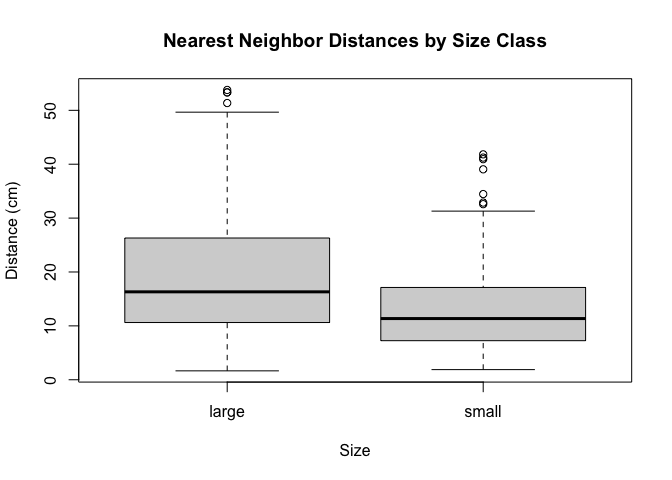
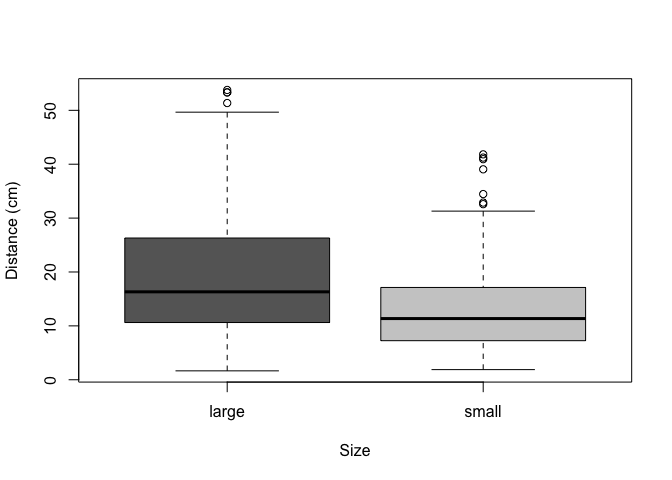
new graphs

Changed region(s): [[0.1875, 0.4688, 0.5, 0.6875], [0.2188, 0.0625, 0.8125, 0.125]]

diff --git a/fhlcode_draft1.md b/fhlcode_draft1.md
@@ -218,7 +218,7 @@ summary_table <- cym_dat %>%
 ggplot(summary_table, aes(x = size, y = count, fill = response_type)) +
   geom_bar(stat = "identity", position = "dodge") +
   labs(title = "Frequency of Fast and Slow Responses by Size Group", y = "Frequency") +
-  scale_fill_manual(values = c("gray40", "gray80")) +
+  scale_fill_manual(values = c("gray40", "gray80"), name="Response Type") +
   theme_minimal()
 ```
 
@@ -301,8 +301,8 @@ print(manwhit_NND)
 ``` r
 #they are significantly different from each other and further apart!  
 
-boxplot(NND ~ size, data = cym_dat, main = "Nearest Neighbor Distances by Size Class",
-        xlab = "Size", ylab = "Distance (cm)")
+boxplot(NND ~ size, data = cym_dat,
+        xlab = "Size", ylab = "Distance (cm)", col = c("gray40", "gray80"))
 ```
 
 ![](fhlcode_draft1_files/figure-gfm/unnamed-chunk-5-1.png)<!-- -->
@@ -877,7 +877,8 @@ ggplot(fast_dat,aes(x=NND,y=turning_rate,color=s_w_reactor))+
    theme(legend.title=element_text(size=14),
        legend.text=element_text(size=14))+
   labs(x = "NND",
-       y = "Turning rate (degree/sec)")
+       y = "Turning rate (degree/sec)")+
+         theme_classic()
 ```
 
     ## `geom_smooth()` using formula = 'y ~ x'
@@ -897,7 +898,8 @@ ggplot(fast_dat,aes(x=NND,y=turning_rate,color=size))+
    theme(legend.title=element_text(size=14),
        legend.text=element_text(size=14))+
   labs(x = "NND",
-       y = "Turning rate (degree/sec)")
+       y = "Turning rate (degree/sec)")+
+         theme_classic()
 ```
 
     ## `geom_smooth()` using formula = 'y ~ x'
